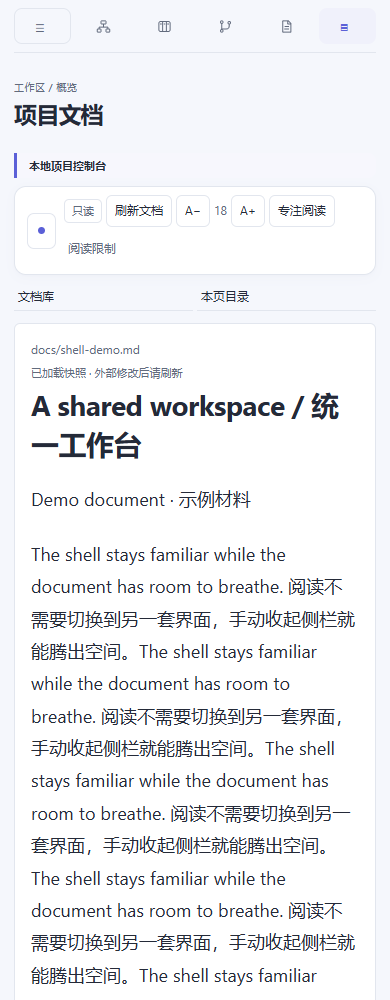
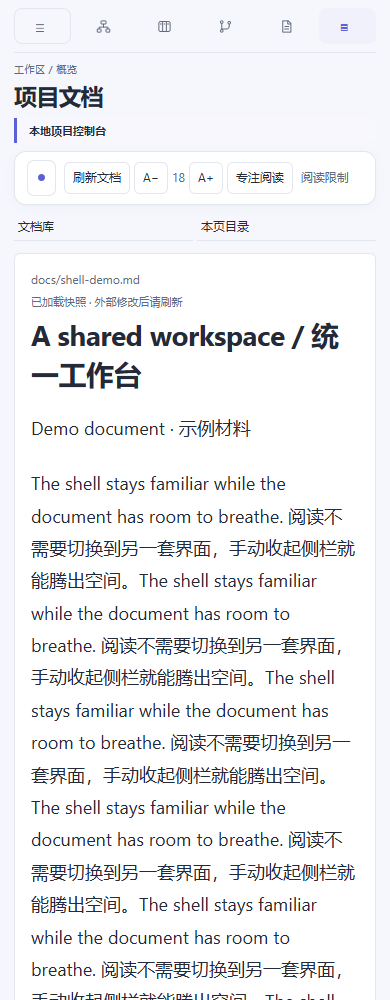
fix: keep the shared phone header compact without hiding navigation

Changed region(s): [[0.0308, 0.062, 0.9231, 1.0], [0.4615, 0.155, 0.8923, 0.248]]

diff --git a/plugin/renderer/documents.css b/plugin/renderer/documents.css
@@ -75,7 +75,7 @@
 @media (max-width: 480px) {
   .reader-reading { padding: 16px 16px 32px; }
   .reader-toolbar { gap: 4px; font-size: 12px; }
-  .reader-toolbar .badge { max-width: none; }
+  .reader-toolbar .badge { display: none; }
   .reader-toolbar button { min-height: 32px; padding: 5px 8px; }
   .reader-status { margin-bottom: 4px; }
   .reader-prose h1 { font-size: 1.55em; }

diff --git a/plugin/renderer/views.css b/plugin/renderer/views.css
@@ -613,8 +613,8 @@ footer {
     height: 15px;
   }
   .topbar {
-    min-height: 100px;
-    padding: 16px 0;
+    min-height: 64px;
+    padding: 8px 0;
     flex-wrap: wrap;
     align-items: center;
   }

diff --git a/changes/active/project-board-release/unified-shell-081.md b/changes/active/project-board-release/unified-shell-081.md
@@ -31,6 +31,12 @@ package及lock两处本包版本一致改为0.8.1，当前说明与生成manifes
 
 [八张真实截图](unified-shell-081-visual/index.html)已在内置Browser实际目视：中文1672展开看板/文档、64px收起明暗，390明暗收起，英文320展开/收起。全局框架一致，正文仍舒适。静态证据页使用临时DOM宽度/分组查看，恢复时宿主两次未能前台显示，恢复请求未执行；仅影响预览标签页的临时展示，不改HTML/截图文件或产品状态。截图是临时演示项目，不是安装宿主或物理触屏证明。
 
[2 lines of base64/hex data omitted]
+
+实际CI39154176981 Linux在英文320px首屏断言失败：正文top482.39px（标准<450），Windows因矩阵失败取消。失败日志及API逐步核实，未记作通过。修复共用窄屏顶栏min-height100→64px、padding16→8px，四页同样紧凑且都保留全局导航/顶栏；文档局部工具在手机去掉重复只读徽标，阅读限制说明仍保留。新增四页共同64px断言，未放宽正文/首屏或旧安全断言。
+
+修复后实际typecheck/build/npmtest208、完整239浏览器图和10行为通过；本机Arial回退探针英文320正文top410.98px通过（不是Linux仿真）。最新8图已替换；宿主Browser未进入当前会话前台，微调后仅自动断言与截图，不冒充最新目视通过，保留前述原框架目视事实。
+
[1 lines of base64/hex data omitted]
 
 正在分发及最终提交后/main/双OS CI交付，完成后更新同一记录。看板doing，原总任务working及历史阻塞保留；无标签/Release/市场/npm/自动安装。
